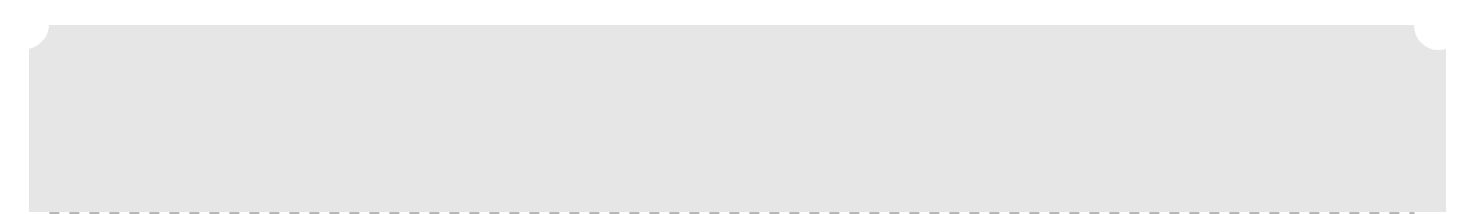
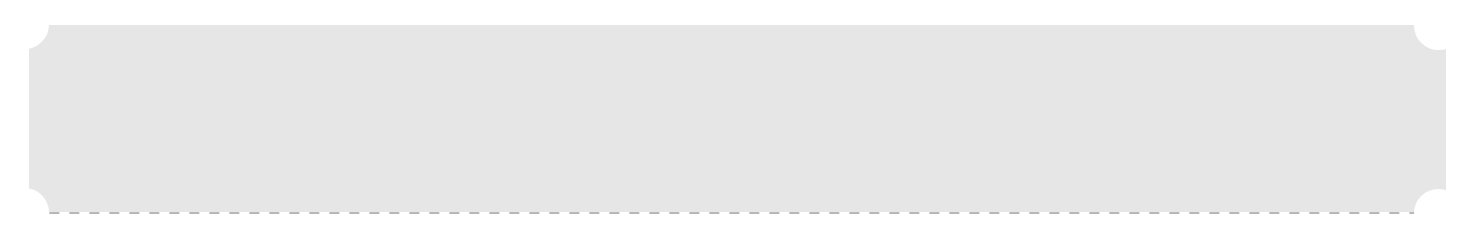
Settings and booking

diff --git a/subpages/booking.html b/subpages/booking.html
@@ -41,7 +41,7 @@
                     <a href="../subpages/contact_support.html" class="nav__link"><i class="fas fa-question-circle nav__icon"></i>Contact & Support</a>
                 </li>
                 <li class="nav__item">
-                    <a href="#" class="nav__link"><i class="fas fa-cog nav__icon"></i>Settings</a>
+                    <a href="../subpages/settings.html" class="nav__link"><i class="fas fa-cog nav__icon"></i>Settings</a>
                 </li>
                 <li class="nav__item">
                     <a href="#" class="nav__link"><i class="fas fa-sign-out-alt nav__icon"></i>Log out</a>
@@ -77,25 +77,50 @@
                     <header class=" heading heading--sub">
                         <h2 class="heading__text">Upcoming</h2>
                     </header>
-                    <div class="g-content__ticket g-content__ticket--first ">
-                        <img src="../img/Alice.png" alt="User-img" class="g-content__ticket__img">
-                        <div class="g-content__ticket__info">
-                            <h5 class="g-content__ticket__data">Alice Johnson</h5>
+                    <div class="g-content__ticket">
+                        <a href="#" alt="Ticket-icon" class="g-content__ticket__icon"><i class="fas fa-calendar-alt"></i></a>
+                        <h5 class="g-content__ticket__data">12/08/2020</h5>
+                        <div class="g-content__ticket__places">
+                            <p class="g-content__ticket__from"><a href="#" alt="Ticket-icon"><i class="fas fa-map-marker-alt"></i></a>Billund</hp><br>
+                            <p class="g-content__ticket__to"><a href="#" alt="Ticket-icon"><i class="fas fa-map-marker-alt"></i></a>Nessebar</hp><br>
+                            <a href="#" class="g-content__ticket__link"></a>
+                        </div>
+                        <img src="../img/post1.png" alt="Ticket-btn" class="g-content__ticket__btn">    
+                    </div>
+                    <div class="g-content__ticket">
+                        <a href="#" alt="Ticket-icon"><i class="fas fa-calendar-alt g-content__ticket__icon"></i></a>
+                        <h5 class="g-content__ticket__data">12/08/2020</h5>
+                        <div class="g-content__ticket__places">
+                            <p class="g-content__ticket__from">Billund</hp><br>
+                            <p class="g-content__ticket__to">The kingdom of graffiti art - LISBON</hp><br>
+                            <a href="#" class="g-content__ticket__link"></a>      
+                        </div>
+                        <img src="../img/post2.png" alt="Ticket-btn" class="g-content__ticket__btn">
+                    </div>
+                </div>
+                <div class="g-content__tickets g-content__tickets--lower">
+                    <header class=" heading heading--sub">
+                        <h2 class="heading__text">Places I have been to</h2>
+                    </header>
+                    <div class="g-content__ticket g-content__ticket">
+                        <a href="#" alt="Ticket-icon" class="g-content__ticket__icon"><i class="fas fa-calendar-alt"></i></a>
+                        <h5 class="g-content__ticket__data">12/08/2020</h5>
+                        <div class="g-content__ticket__places">
                             <p class="g-content__ticket__from">The kingdom of graffiti art - LISBON</hp><br>
                             <p class="g-content__ticket__to">The kingdom of graffiti art - LISBON</hp><br>
                             <a href="#" class="g-content__ticket__link"></a>
                         </div>
-                        <img src="../img/post1.png" alt="User-img" class="g-content__ticket__journal">    
+                        <img src="../img/post1.png" alt="Ticket-btn" class="g-content__ticket__btn">    
                     </div>
-                    <div class="g-content__ticket g-content__ticket--second">
-                        <img src="../img/Greg.png" alt="User-img" class="g-content__ticket__img">
-                        <div class="g-content__ticket__info">
-                            <h5 class="g-content__ticket__data">Alice Johnson</h5>
+                    <div class="g-content__ticket g-content__ticket">
+                        <a href="#" alt="Ticket-icon"><i class="fas fa-calendar-alt g-content__ticket__icon"></i></a>
+                        <h5 class="g-content__ticket__data">12/08/2020</h5>
+                        <div class="g-content__ticket__places">
                             <p class="g-content__ticket__from">The kingdom of graffiti art - LISBON</hp><br>
                             <p class="g-content__ticket__to">The kingdom of graffiti art - LISBON</hp><br>
                             <a href="#" class="g-content__ticket__link"></a>      
                         </div>
-                        <img src="../img/post2.png" alt="User-img" class="g-content__ticket__journal">
+                        <img src="../img/post2.png" alt="Ticket-btn" class="g-content__ticket__btn">
                     </div>
                 </div>
             </div>

diff --git a/style.scss b/style.scss
@@ -403,44 +403,40 @@ body{
 
             .g-content__ticket{
                 width: 100%;
-                height: 120px;
+                height: 100%;
                 background-image: url(../img/ticket.png);
                 background-position: center; /* Center the image */
                 background-size: cover;
                 border-radius: 20px;
                 display: flex;
                 align-items: center;
+                margin-bottom: 2px;
 
-                &--first {
-                    position:relative;
-                    z-index: 2;
+                &__icon {
+                    font-size: 30px;
+                    color: #0998E6;
+                    margin-left: 50px;
+                    padding: 30px;
                 }
 
-                &--second {
-                    position: absolute;
-                    z-index: 1;
-                }
-
-                &__img {
-                    width: 80px;
-                    height: 80px;
-                    padding: 20px;
-                }
-
-                &__journal {
+                &__btn {
                     width: 100px;
                     margin-left: auto;
                     padding: 20px;
                 }
 
-                &__user {
-                    font-size: 15px;
-                    color: #707070;
-                    padding-bottom: 5px;
-                }
+                &__places {
+                    display: flex;
 
-                &__title {
-                    font-size: 15px;
+                    .g-content__ticket__from {
+                        font-size: 15px;
+                        color: #707070;
+                        padding-bottom: 5px;
+                    }
+
+                    .g-content__ticket__to {
+                        font-size: 15px;
+                    }
                 }
 
                 &__link {
@@ -576,20 +572,10 @@ color: #333;
                     display: flex;
                     align-items: center;
 
-                    &__journal {
-                        width: 100px;
-                        margin-left: auto;
-                        padding: 20px;
-                    }
-    
                     &__container {
                         font-size: 15px;
                         color: #707070;
-                        padding-bottom: 5px;
-                    }
-    
-                    &__title {
-                        font-size: 15px;
+                        padding: 10px;
                     }
     
                 }

diff --git a/css/style.css b/css/style.css
@@ -462,7 +462,7 @@ body {
 
 .g-content__item .g-content__tickets .g-content__ticket {
   width: 100%;
-  height: 120px;
+  height: 100%;
   background-image: url(../img/ticket.png);
   background-position: center;
   /* Center the image */
@@ -474,37 +474,35 @@ body {
   -webkit-box-align: center;
       -ms-flex-align: center;
           align-items: center;
+  margin-bottom: 2px;
 }
 
-.g-content__item .g-content__tickets .g-content__ticket--first {
-  position: relative;
-  z-index: 2;
+.g-content__item .g-content__tickets .g-content__ticket__icon {
+  font-size: 30px;
+  color: #0998E6;
+  margin-left: 50px;
+  padding: 30px;
 }
 
-.g-content__item .g-content__tickets .g-content__ticket--second {
-  position: absolute;
-  z-index: 1;
-}
-
-.g-content__item .g-content__tickets .g-content__ticket__img {
-  width: 80px;
-  height: 80px;
-  padding: 20px;
-}
-
-.g-content__item .g-content__tickets .g-content__ticket__journal {
+.g-content__item .g-content__tickets .g-content__ticket__btn {
   width: 100px;
   margin-left: auto;
   padding: 20px;
 }
 
-.g-content__item .g-content__tickets .g-content__ticket__user {
+.g-content__item .g-content__tickets .g-content__ticket__places {
+  display: -webkit-box;
+  display: -ms-flexbox;
+  display: flex;
+}
+
+.g-content__item .g-content__tickets .g-content__ticket__places .g-content__ticket__from {
   font-size: 15px;
   color: #707070;
   padding-bottom: 5px;
 }
 
-.g-content__item .g-content__tickets .g-content__ticket__title {
+.g-content__item .g-content__tickets .g-content__ticket__places .g-content__ticket__to {
   font-size: 15px;
 }
 
@@ -673,20 +671,10 @@ body {
           align-items: center;
 }
 
-.a-content__item .a-content__settings .a-content__setting__journal {
-  width: 100px;
-  margin-left: auto;
-  padding: 20px;
-}
-
 .a-content__item .a-content__settings .a-content__setting__container {
   font-size: 15px;
   color: #707070;
-  padding-bottom: 5px;
-}
-
-.a-content__item .a-content__settings .a-content__setting__title {
-  font-size: 15px;
+  padding: 10px;
 }
 
 @media (max-width: 800px) {
